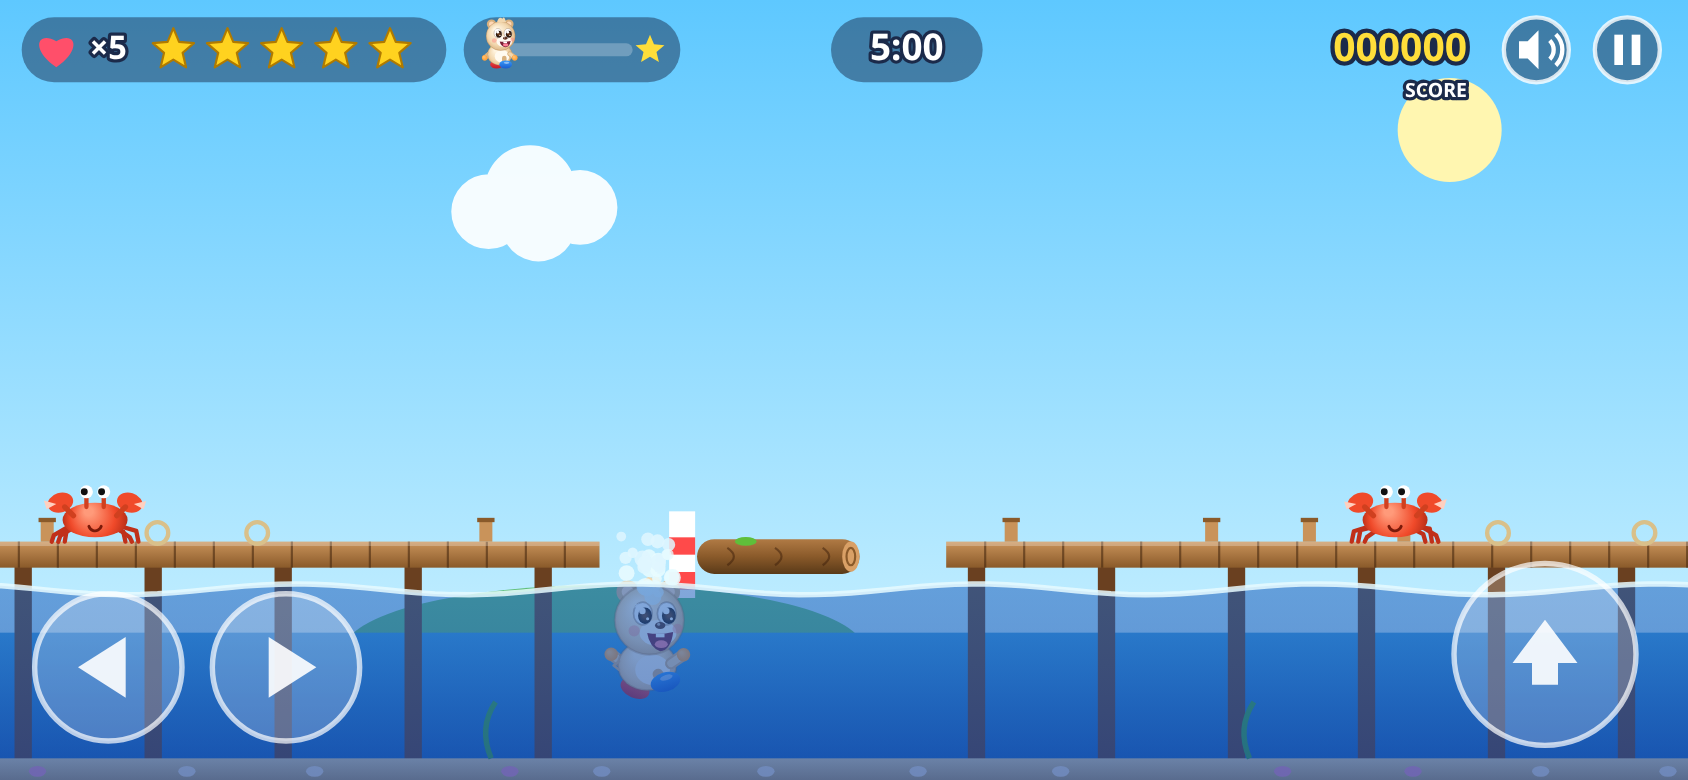
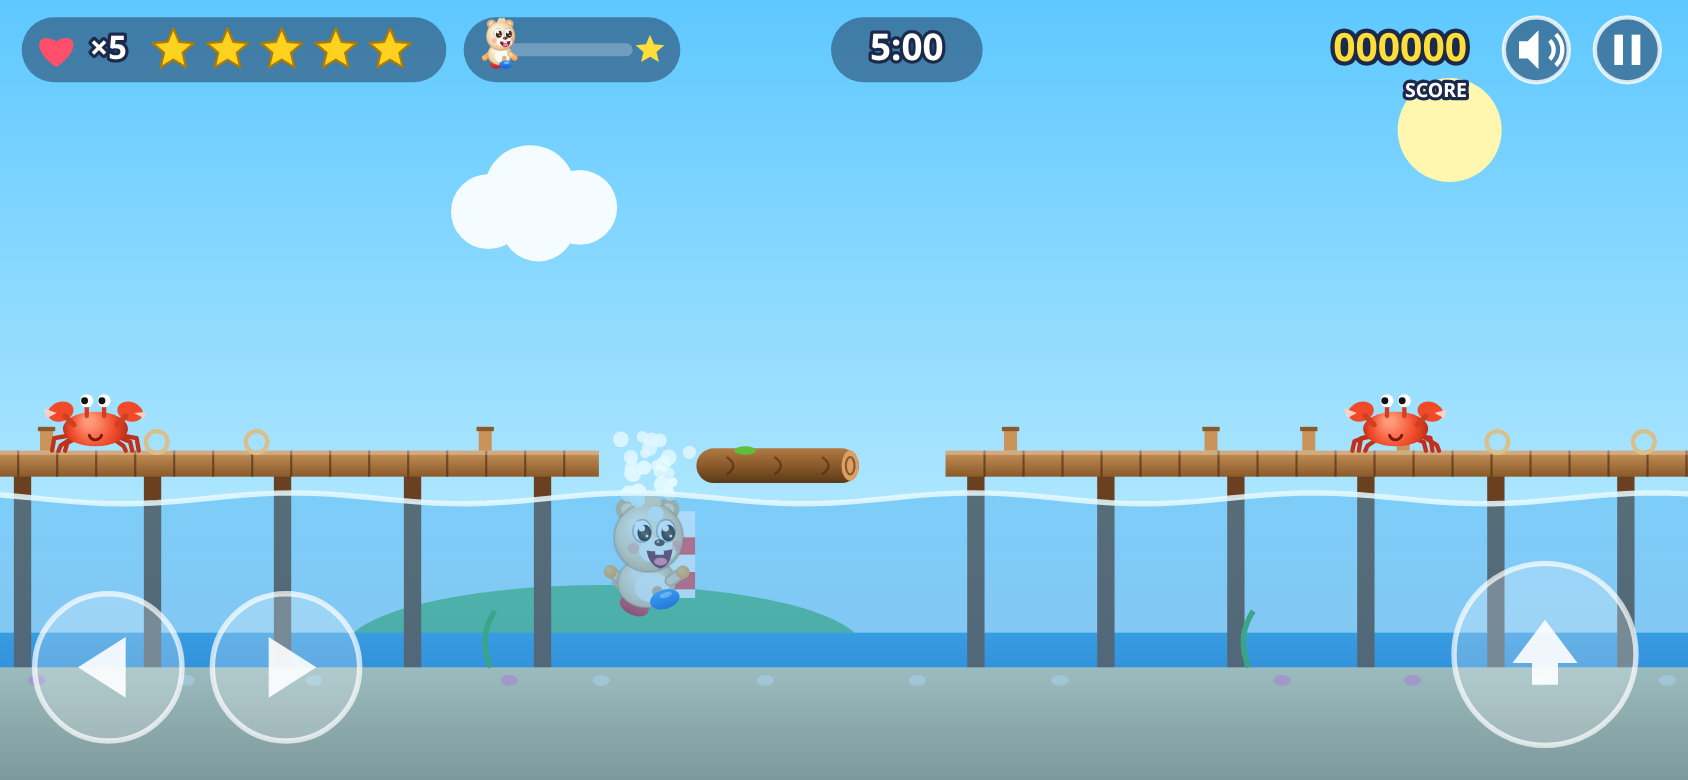
L4: one flat water surface at pier level; deep sections go down with a vertical camera

diff --git a/js/game.js b/js/game.js
@@ -68,20 +68,20 @@
     const w = {
       def, theme, solids: [], gaps: [], ents: [], parts: [], pops: [], decor: [], streaks: [],
       wind: { phase: 'calm', t: 2.5 }, boltT: 2, flash: 0,
-      time: def.time, camX: 0, shake: 0, t: 0,
+      time: def.time, camX: 0, camY: 0, shake: 0, t: 0,
       g: GRAV * (def.gravity || 1), maxFall: MAX_FALL * (def.gravity ? 0.55 : 1), jumpScale: def.jumpScale || 1,
       rockT: 2, powerT: def.power.first, birdTriggers: def.birds.map(b => ({ x: b[0], skin: b[1] || def.birdSkin || 'bird', done: false })),
       banner: null, won: false, bubbleT: 0
     };
-    def.ground.forEach(([x0, x1, top]) => w.solids.push({ x: x0, y: top, w: x1 - x0, h: 600, kind: groundKind, style: 'bank', main: true, bump: 0, alpha: 1 }));
+    def.ground.forEach(([x0, x1, top]) => w.solids.push({ x: x0, y: top, w: x1 - x0, h: def.seabed ? seabedAt(x0 + 1, def) - top : 600, kind: groundKind, style: 'bank', main: true, bump: 0, alpha: 1 }));
     def.blocks.forEach(([x, top, bw]) => w.solids.push({ x, y: top, w: bw, h: blockKind === 'ac' ? 30 : 22, kind: blockKind, style: 'static', bump: 0, alpha: 1 }));
     def.clouds.forEach(([x, top, cw, style, o]) => {
       o = o || {};
       w.solids.push({ x, y: top, w: cw, h: 20, kind: 'cloud', style, bx: x, by: top, ax: o.ax || 0, ay: o.ay || 0, period: o.period || 4, bump: 0, alpha: 1, standT: 0, off: false, respawnT: 0, squash: 0, dx: 0, dy: 0 });
     });
     def.logs.forEach(([x, top, lw, o]) => { o = o || {}; w.solids.push({ x, y: top, w: lw, h: 16, kind: 'log', style: 'drift', bx: x, by: top, ax: o.ax || 0, ay: 3, period: o.ax ? 5 : 2.6, bump: 0, alpha: 1, dx: 0, dy: 0, squash: 0 }); });
-    if (def.seabed) w.solids.push({ x: -50, y: def.seabed, w: def.length + 100, h: 400, kind: 'sand', style: 'bank', main: true, seabed: true, bump: 0, alpha: 1 });
-    def.coral.forEach(([x, top, cw]) => w.solids.push({ x, y: top, w: cw, h: (def.seabed || VH) - top, kind: 'coral', style: 'static', bump: 0, alpha: 1 }));
+    if (def.seabed) def.seabed.forEach(([x0, x1, y]) => w.solids.push({ x: x0, y, w: x1 - x0, h: 400, kind: 'sand', style: 'bank', main: true, seabed: true, bump: 0, alpha: 1 }));
+    def.coral.forEach(([x, top, cw]) => w.solids.push({ x, y: top, w: cw, h: seabedAt(x, def) - top, kind: 'coral', style: 'static', bump: 0, alpha: 1 }));
     if (!def.water.length) {
       const gs = def.ground.slice().sort((a, b) => a[0] - b[0]);
       for (let i = 0; i < gs.length - 1; i++) if (gs[i + 1][0] > gs[i][1]) w.gaps.push({ x0: gs[i][1], x1: gs[i + 1][0], passed: false });
@@ -125,6 +125,13 @@
     }
     return null;
   }
+  function seabedAt(x, def) {
+    def = def || W.def;
+    if (!def.seabed) return VH;
+    for (const [a, b, y] of def.seabed) if (x >= a && x < b) return y;
+    return VH;
+  }
+  const isDeep = x => seabedAt(x) > 400;
   function inWater(b) { const wy = waterY(b.x); return wy !== null && b.y - b.h * 0.45 > wy; }
 
   function makePlayer() {
@@ -148,7 +155,7 @@
     if (fresh) { G.lives = START_LIVES; G.levelStartScore = G.score; }
     G.score = G.levelStartScore;
     buildLevel(idx);
-    W.ents.forEach(e => { if (e.y === null) e.y = e.type === 'fish' ? 250 : (surfaceAt(e.x) || W.def.seabed || 300); });
+    W.ents.forEach(e => { if (e.y === null) e.y = e.type === 'fish' ? 250 : (surfaceAt(e.x) || seabedAt(e.x)); });
     P = makePlayer();
     W.camX = 0;
     setState('intro');
@@ -304,7 +311,7 @@
         P.onGround = false;
       }
       if (Input.jump && P.vy > -120) P.vy -= 260 * dt;     // hold to drift upward
-      const wy2 = waterY(P.x), open = wy2 > 200;   // open water between docks: buoyancy bobs you back out
+      const wy2 = waterY(P.x), open = !isDeep(P.x);   // open water between docks: buoyancy bobs you back out
       if (open) {
         const depth = P.y - P.h * 0.5 - wy2;
         P.vy -= (depth > 0 ? 900 + depth * 8 : 0) * dt;
@@ -357,7 +364,7 @@
     if (fast) { P.trailT -= dt; if (P.trailT < 0) { P.trailT = 0.045; P.trail.push({ x: P.x, y: P.y, face: P.face, a: 0.5 }); } }
     P.trail.forEach(tr => tr.a -= dt * 2); P.trail = P.trail.filter(tr => tr.a > 0);
     // fell into a gap
-    if (P.y > VH + 60) {
+    if (P.y > (W.def.seabed ? 2000 : VH + 60)) {
       if (G.rescue) { G.rescues++; (G.rescueAt = G.rescueAt || []).push(Math.round(P.x)); let x = P.x; while (surfaceAt(x, true) === null && x < W.def.length) x += 20; P.x = x + 20; P.y = surfaceAt(P.x, true) - 1; P.vy = 0; return; }
       P.stars = 0; die('Fell in a gap!');
     }
@@ -447,7 +454,7 @@
       e.vy = Math.min(e.vy + W.g * dt, W.maxFall);
       moveBody(e, dt);
       if (e.hitWall) e.dir *= -1;
-      if (e.y > VH + 80) { e.dead = true; return; }
+      if (e.y > (W.def.seabed ? 2000 : VH + 80)) { e.dead = true; return; }
       if (e.x < W.camX - 200) { e.dead = true; return; }
       contact(e, stompCheck(e, pb, e.y - e.h));
     } else if (e.state === 'flat') {
@@ -548,11 +555,11 @@
   }
 
   function updateFish(e, dt, pb) {
-    if (!e.active) { if (e.x < W.camX + VW + 40) { e.active = true; e.y = clamp(P.y - 20, (waterY(e.x) || 0) + 24, (W.def.seabed || VH) - 20); } else return; }
+    if (!e.active) { if (e.x < W.camX + VW + 40) { e.active = true; e.y = clamp(P.y - 20, (waterY(e.x) || 0) + 24, seabedAt(e.x) - 20); } else return; }
     const wy = waterY(e.x);
     e.x -= e.speed * dt;
     // drift toward the player's depth, gently
-    const ty = clamp(P.y - P.h / 2, (wy === null ? 0 : wy) + 18, (W.def.seabed || VH) - 16);
+    const ty = clamp(P.y - P.h / 2, (wy === null ? 0 : wy) + 18, seabedAt(e.x) - 16);
     e.y += clamp(ty - e.y, -40 * dt, 40 * dt) + Math.sin(e.t * 3) * 0.4;
     if (e.x < W.camX - 80) { e.dead = true; return; }
     const res = stompCheck(e, pb, e.y - e.h / 2);
@@ -696,6 +703,10 @@
     // camera
     const target = clamp(P.x - VW * 0.38, 0, Math.max(0, W.def.length - VW));
     W.camX += (target - W.camX) * Math.min(1, dt * 7);
+    // deep water: camera follows Tubby down (never above the normal view)
+    const maxY = W.def.seabed ? Math.max(...W.def.seabed.map(b => b[2])) + 20 - VH : 0;
+    const ty = clamp(P.y - 230, 0, maxY);
+    W.camY += (ty - W.camY) * Math.min(1, dt * 5);
   }
 
   function win() {
@@ -992,10 +1003,13 @@
 
   function renderWorld() {
     const t = W.t;
-    W.theme.background(ctx, W.camX, VW, VH, t);
+    if (W.camY > 0.5) {   // deep water: scroll the backdrop up with the camera and fill below with deep sea
+      ctx.save(); ctx.translate(0, -W.camY); W.theme.background(ctx, W.camX, VW, VH, t); ctx.restore();
+      ctx.fillStyle = '#1a5fb0'; ctx.fillRect(0, VH - W.camY - 1, VW, W.camY + 2);
+    } else W.theme.background(ctx, W.camX, VW, VH, t);
     ctx.save();
     const sh = W.shake;
-    ctx.translate(-Math.round(W.camX * 10) / 10 + (sh ? rand(-sh, sh) : 0), sh ? rand(-sh, sh) * 0.6 : 0);
+    ctx.translate(-Math.round(W.camX * 10) / 10 + (sh ? rand(-sh, sh) : 0), -Math.round(W.camY * 10) / 10 + (sh ? rand(-sh, sh) * 0.6 : 0));
     const L = W.camX - 60, R = W.camX + VW + 60;
     // solids
     for (const s of W.solids) {
@@ -1006,9 +1020,9 @@
         case 'block': drawBlock(s); break;
         case 'roof': D.building(ctx, s, L, R, VH, t); break;
         case 'ac': D.acUnit(ctx, s, s.y - Math.sin(s.bump * Math.PI) * 6); break;
-        case 'dock': D.dock(ctx, s, VH); break;
+        case 'dock': D.dock(ctx, s, VH + W.camY); break;
         case 'log': D.log(ctx, s); break;
-        case 'sand': D.sand(ctx, s, L, R, VH); break;
+        case 'sand': D.sand(ctx, s, L, R, VH + W.camY); break;
         case 'coral': D.coral(ctx, s, t); break;
         case 'moon': D.moonRock(ctx, s, L, R, VH, false); break;
         case 'asteroid': { const by = s.y - Math.sin(s.bump * Math.PI) * 6; D.moonRock(ctx, Object.assign({}, s, { y: by }), L, R, VH, true); break; }
@@ -1114,13 +1128,13 @@
   }
   function drawWater(L, R, t) {
     if (!W.def.water.length) return;
-    const bottom = VH + 20, step = 8;
+    const bottom = VH + 20 + W.camY, step = 8;
     const x0 = Math.floor(L / step) * step, x1 = R;
     const wave = x => (waterY(x) ?? bottom) + Math.sin(x * 0.04 + t * 2.2) * 2.5;
     ctx.beginPath(); ctx.moveTo(x0, bottom);
     for (let x = x0; x <= x1 + step; x += step) ctx.lineTo(x, wave(x));
     ctx.lineTo(x1 + step, bottom); ctx.closePath();
-    const g = ctx.createLinearGradient(0, 60, 0, VH); g.addColorStop(0, 'rgba(60,170,240,.42)'); g.addColorStop(1, 'rgba(20,70,170,.62)');
+    const g = ctx.createLinearGradient(0, 272, 0, 660); g.addColorStop(0, 'rgba(60,170,240,.42)'); g.addColorStop(1, 'rgba(20,70,170,.62)');
     ctx.fillStyle = g; ctx.fill();
     ctx.strokeStyle = 'rgba(230,250,255,.85)'; ctx.lineWidth = 2.5;
     ctx.beginPath(); let first = true;
@@ -1130,14 +1144,14 @@
     ctx.fillStyle = 'rgba(255,255,255,.06)';
     for (let k = Math.floor(L / 160); k < R / 160 + 1; k++) {
       const x = k * 160 + 40, wy = waterY(x);
-      if (wy === null || wy > 200) continue;
-      ctx.beginPath(); ctx.moveTo(x, wy); ctx.lineTo(x + 30, wy); ctx.lineTo(x + 80, VH); ctx.lineTo(x + 40, VH); ctx.fill();
+      if (wy === null || !isDeep(x)) continue;
+      ctx.beginPath(); ctx.moveTo(x, wy); ctx.lineTo(x + 30, wy); ctx.lineTo(x + 80, seabedAt(x)); ctx.lineTo(x + 40, seabedAt(x)); ctx.fill();
     }
     ctx.strokeStyle = 'rgba(255,255,255,.45)'; ctx.lineWidth = 1;
     for (let k = Math.floor(L / 90); k < R / 90 + 1; k++) {
       const x = k * 90 + window.hash01(k) * 60, wy = waterY(x);
-      if (wy === null || wy > 200) continue;
-      const y = VH - ((t * 30 + window.hash01(k + 7) * 300) % (VH - wy));
+      if (wy === null || !isDeep(x)) continue;
+      const sb = seabedAt(x), y = sb - ((t * 30 + window.hash01(k + 7) * 300) % (sb - wy));
       D.circ(ctx, x + Math.sin(t * 2 + k) * 4, y, 2 + window.hash01(k + 3) * 2); ctx.stroke();
     }
   }

diff --git a/js/levels.js b/js/levels.js
@@ -62,15 +62,15 @@
       // docks over the water (falling in just means swimming)
       ground: [[0, 700, 250], [860, 1400, 250], [1600, 2200, 250], [2400, 3000, 250], [5750, 6500, 250], [6650, 7300, 250],
                [7450, 8000, 250], [9800, 10500, 250]],
-      seabed: 350,
-      // water: [x0, x1, surfaceY]; neighbouring regions blend with a sloped swell
-      water: [[0, 3000, 272], [3150, 5600, 70], [5750, 8000, 272], [8150, 9650, 70], [9800, 10500, 272]],
+      // seabed: [x0, x1, y] - deep-dive sections just have a lower seabed. water: one flat surface for the whole level
+      seabed: [[-50, 3000, 350], [3000, 5750, 620], [5750, 8000, 350], [8000, 9800, 620], [9800, 10550, 350]],
+      water: [[-50, 10550, 272]],
       logs: [[745, 246, 75], [1450, 246, 100, { ax: 20 }], [2250, 246, 100], [6520, 246, 110, { ax: 25 }], [7320, 246, 110]],
-      coral: [[3500, 260, 60], [4100, 200, 50], [4700, 280, 80], [5200, 230, 60], [8500, 250, 60], [9100, 210, 60]],
+      coral: [[3500, 520, 60], [4100, 470, 50], [4700, 540, 80], [5200, 490, 60], [8500, 510, 60], [9100, 470, 60]],
       bugs: [[500], [1100], [1800], [2600], [3800], [4500], [6000], [6900], [7700], [8600], [10000]],
       birds: [[1000], [2500], [6200], [7600]],
       fish: [[3300], [3700], [4000], [4400], [4900], [5300], [8300], [8700], [9000], [9400]],
-      jellies: [[3600, 200], [4300, 150], [4900, 220], [5400, 160], [8400, 180], [8900, 140], [9500, 200]],
+      jellies: [[3600, 420], [4300, 380], [4900, 460], [5400, 400], [8400, 430], [8900, 390], [9500, 450]],
       power: { first: 5, min: 8, max: 13 }
     },
     {

diff --git a/sw.js b/sw.js
@@ -1,5 +1,5 @@
 // Offline cache for Run N Rumble. Bump VERSION when files change.
-const VERSION = 'rnr-v5';
+const VERSION = 'rnr-v6';
 const CORE = [
   './', './index.html', './manifest.webmanifest',
   './js/audio.js', './js/input.js', './js/draw.js', './js/art.js', './js/levels.js', './js/game.js',
